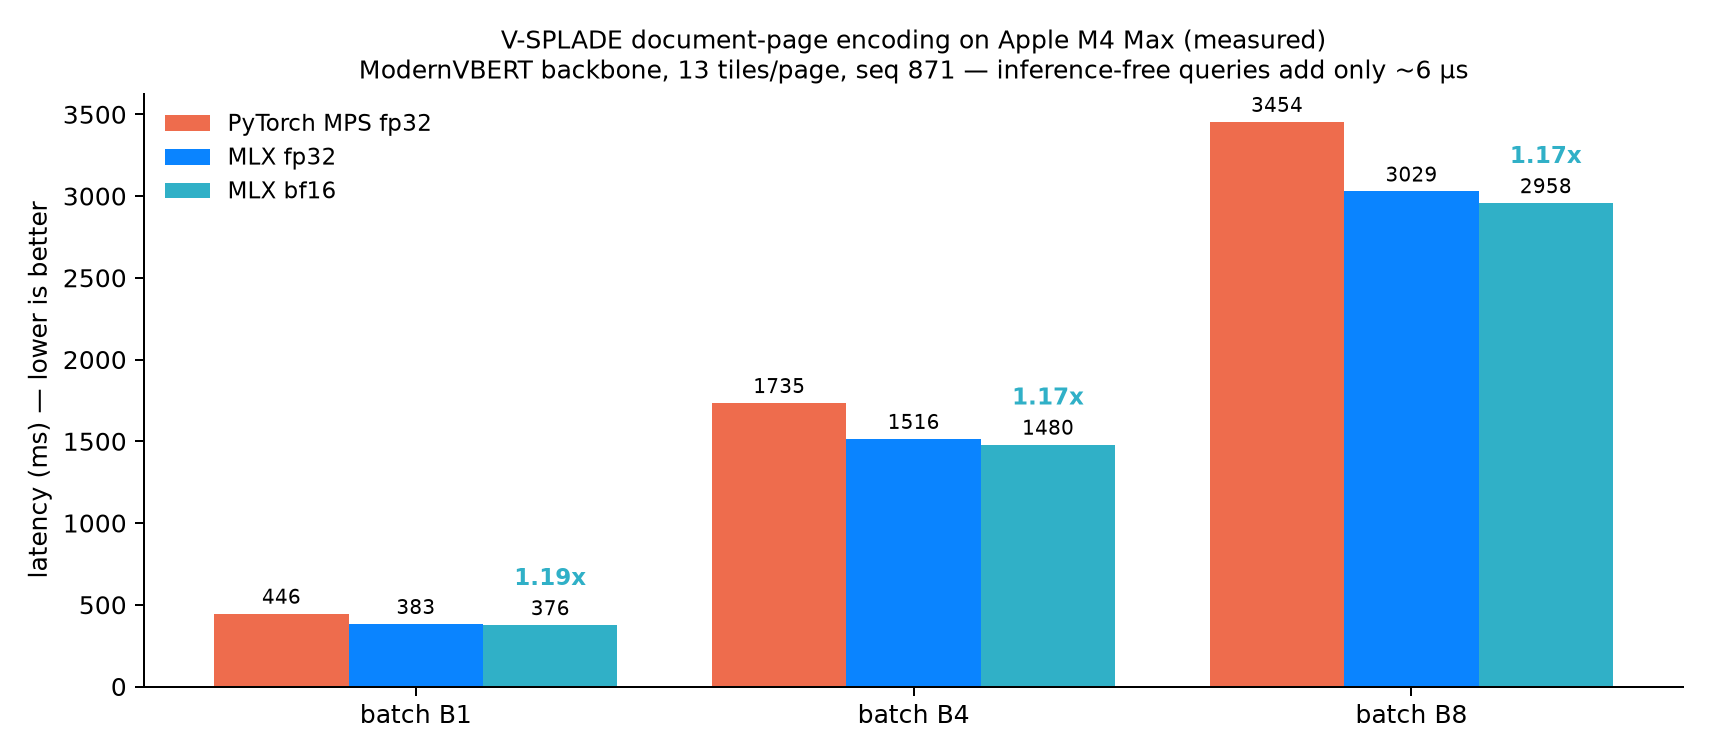
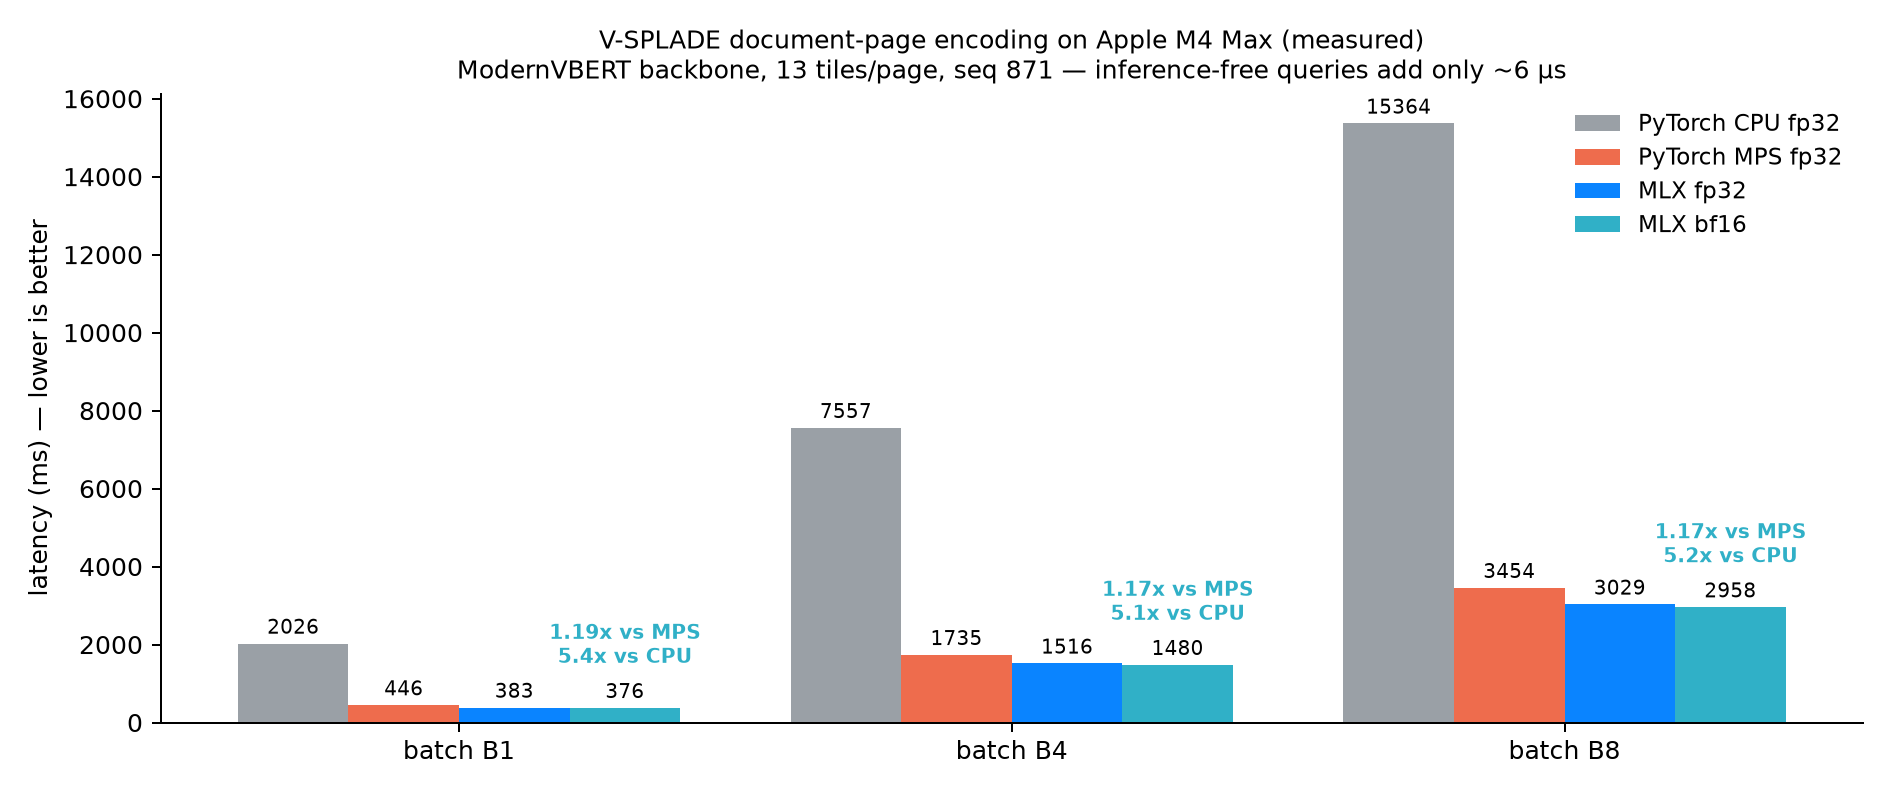
V-SPLADE: add torch CPU baseline; README reordered text-first
- CPU fp32 page encoding measured: 2026/7557/15364 ms (B1/4/8)
  -> MLX bf16 is 5.1-5.4x faster than CPU, 1.17-1.19x vs MPS
- vsplade_latency.png now shows CPU/MPS/MLX fp32/bf16 series
- README: text SPLADE (larger speedups) moved above V-SPLADE
- REPORT 8: full CPU column + compute-bound explanation

diff --git a/README.md b/README.md
@@ -2,20 +2,37 @@
 
 **SPLADE sparse retrieval models — text *and* visual — natively on Apple Silicon with [MLX](https://github.com/ml-explore/mlx).**
 
-Includes the first MLX port of **V-SPLADE** ([arXiv:2605.30917](https://arxiv.org/abs/2605.30917)):
-NAVER's inference-free **multimodal** sparse retriever for **visual document retrieval**
-— retrieving rendered document pages (PDFs, slides, scans) from text queries.
+- **Text SPLADE**: **1.3–2.9x faster** than PyTorch MPS at matched precision (up to
+  **7.3x** vs CPU), with fp32 retrieval quality identical to PyTorch on BEIR.
+- **V-SPLADE** ([arXiv:2605.30917](https://arxiv.org/abs/2605.30917)): the first MLX port of
+  NAVER's inference-free **multimodal** sparse retriever for visual document retrieval —
+  bit-exact fp32 parity on ViDoRe, ~6 µs inference-free queries (section below).
+
+## Text SPLADE (naver/splade-v3 family, splade-cocondenser, ...)
+
+![Inference latency: PyTorch vs MLX on Apple M4 Max](assets/latency_m4max.png)
+
+![Retrieval quality is preserved](assets/quality_parity.png)
+
+*All numbers above are measured on an Apple M4 Max (12P+4E, 64 GB). The latency chart
+compares **matched precision only** (fp32 vs fp32, fp16 vs bf16), so the speedup is
+attributable to MLX itself — not to quantization. Quantization is an optional extra
+(it helps at batch 1, and is actually slower than bf16 at large batches). MLX fp32
+reproduces the PyTorch fp32 nDCG@10 to the last floating-point digit on BEIR NFCorpus
+and SciFact — the ranking is identical, not just close. bf16 and 8-bit stay within
+±0.0014.*
+
+## V-SPLADE (visual document retrieval) — naver/v-splade-{efficient,quality}
 
 ![V-SPLADE document-page encoding: PyTorch vs MLX on Apple M4 Max](assets/vsplade_latency.png)
 
 ![ViDoRe nDCG@5 parity](assets/vsplade_quality.png)
 
-*Measured on an Apple M4 Max (12P+4E, 64 GB). V-SPLADE document encoding is 1.17–1.19x
-faster in MLX at matched precision, and **fp32 reproduces the PyTorch ViDoRe nDCG@5
-to the last floating-point digit** (Δ = 0.0000, both variants). Queries are
-inference-free: a static vocabulary lookup (~6 µs) — no neural encoding at all.*
-
-## V-SPLADE (visual document retrieval) — naver/v-splade-{efficient,quality}
+*Measured on an Apple M4 Max (12P+4E, 64 GB). V-SPLADE document-page encoding is
+**1.17–1.19x faster than PyTorch MPS** at matched precision and **~5.2–5.4x faster
+than PyTorch CPU**, and fp32 reproduces the PyTorch ViDoRe nDCG@5 to the last
+floating-point digit (Δ = 0.0000, both variants). Queries are inference-free: a static
+vocabulary lookup (~6 µs) — no neural encoding at all.*
 
 | MLX weights | Upstream | fp32 parity (max logit Δ) | ViDoRe docvqa nDCG@5 (fp32) | License |
 |---|---|---|---|---|
@@ -52,20 +69,6 @@ score = d @ qw.T  # sparse dot product — inverted-index compatible
 Note on half precision: MLX bf16 stays within the ±0.002 nDCG gate for `efficient`
 (+0.0002) but lands just outside it for `quality` (−0.0024). Use fp32 for exact parity;
 bf16 only when the small speed gain matters more than the last 0.2pp of nDCG.
-
-## Text SPLADE (naver/splade-v3 family, splade-cocondenser, ...)
-
-![Inference latency: PyTorch vs MLX on Apple M4 Max](assets/latency_m4max.png)
-
-![Retrieval quality is preserved](assets/quality_parity.png)
-
-*All numbers above are measured on an Apple M4 Max (12P+4E, 64 GB). The latency chart
-compares **matched precision only** (fp32 vs fp32, fp16 vs bf16), so the speedup is
-attributable to MLX itself — not to quantization. Quantization is an optional extra
-(it helps at batch 1, and is actually slower than bf16 at large batches). MLX fp32
-reproduces the PyTorch fp32 nDCG@10 to the last floating-point digit on BEIR NFCorpus
-and SciFact — the ranking is identical, not just close. bf16 and 8-bit stay within
-±0.0014.*
 
 ## Highlights
 

diff --git a/REPORT.md b/REPORT.md
@@ -41,13 +41,18 @@ variants. bf16 passes the ±0.002 gate for `efficient` and misses it narrowly fo
 `quality` — fp32 is the default; bf16 is a deliberate trade-off.
 
 **Latency** (document-page encoding: vision+text+SPLADE head; preprocessing ~39 ms/page
-on CPU measured separately; matched precision):
+on CPU measured separately):
 
-| batch (pages) | torch MPS fp32 | MLX fp32 | MLX bf16 | speedup (bf16) |
-|---|---|---|---|---|
-| 1 | 446.4 ms | 383.4 ms | 376.2 ms | **1.19x** |
-| 4 | 1734.9 ms | 1515.6 ms | 1480.3 ms | **1.17x** |
-| 8 | 3454.5 ms | 3028.7 ms | 2957.5 ms | **1.17x** |
+| batch (pages) | torch CPU fp32 | torch MPS fp32 | MLX fp32 | MLX bf16 | bf16 vs MPS | bf16 vs CPU |
+|---|---|---|---|---|---|---|
+| 1 | 2025.9 ms | 446.4 ms | 383.4 ms | 376.2 ms | **1.19x** | **5.39x** |
+| 4 | 7557.0 ms | 1734.9 ms | 1515.6 ms | 1480.3 ms | **1.17x** | **5.10x** |
+| 8 | 15364.3 ms | 3454.5 ms | 3028.7 ms | 2957.5 ms | **1.17x** | **5.19x** |
+
+Why the MPS→MLX gap is smaller here than for text queries: a page expands to 13 image
+tiles and an 871-token sequence, so the workload is dominated by large GEMMs where both
+backends saturate the GPU (compute-bound) — the dispatch-overhead advantage that drives
+the 2–4x text-query gains matters little. Versus CPU the MLX port is ~5.2–5.4x faster.
 
 Queries cost **~6 µs** (static lookup) — no neural encoding, which is the core
 efficiency property of V-SPLADE and carries over unchanged to the MLX port.
